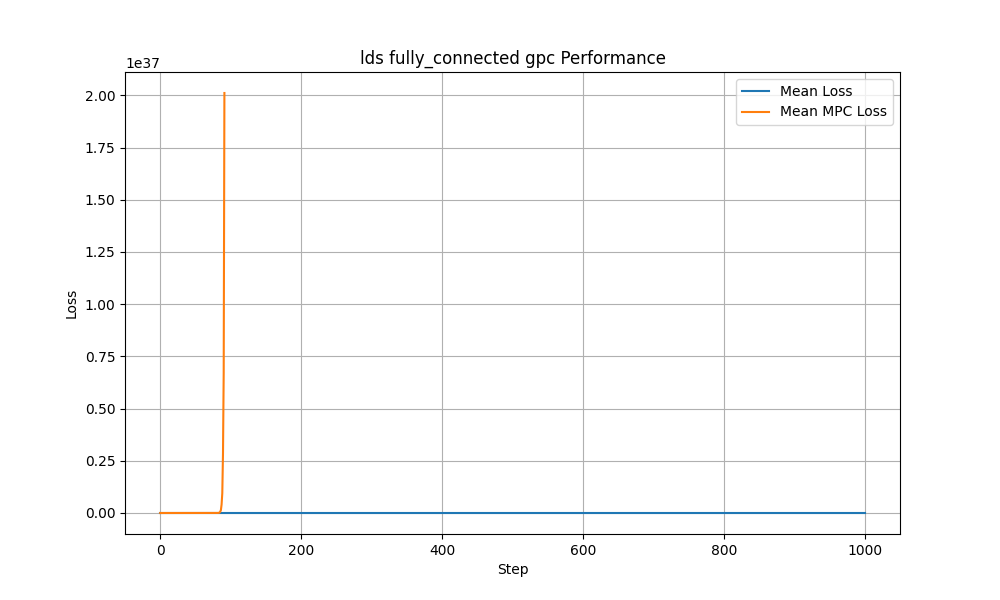
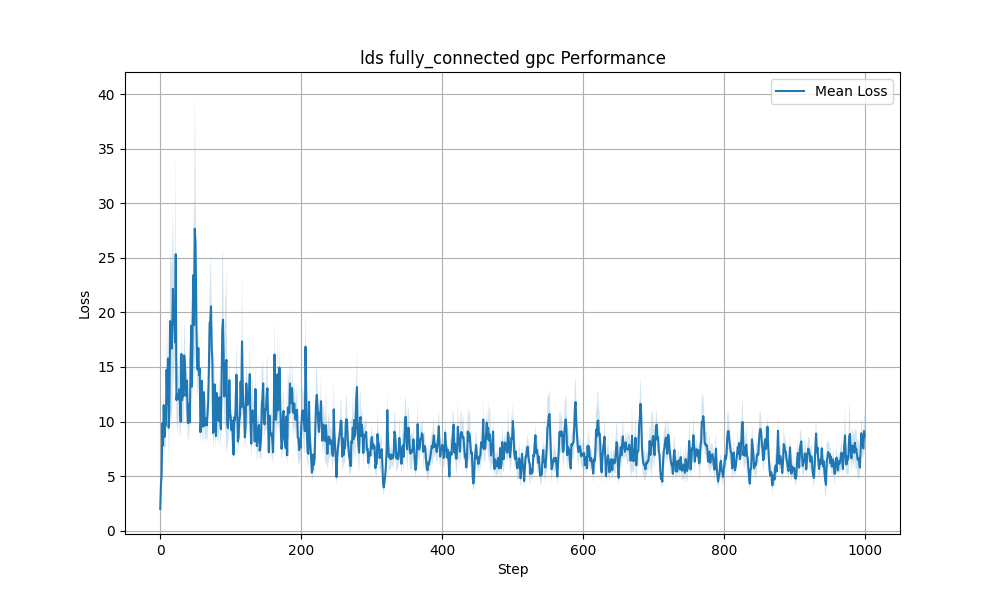
new experiment that takes in state and noise not working

diff --git a/deluca/experimental/experiments.py b/deluca/experimental/experiments.py
@@ -121,7 +121,7 @@ def run_trial(
     elif config.disturbance_type == 'gaussian':
         disturbance = lambda d, dist_std, t, key: gaussian_disturbance(d=d, dist_std=disturbance_params['std'], t=t, key=key)
     elif config.disturbance_type == 'zero':
-        disturbance = lambda d, dist_std, t, key: zero_disturbance(d=d, key=key)
+        disturbance = lambda d, dist_std, t, key: zero_disturbance(d=d, dist_std=dist_std, t=t, key=key)
     else:
         raise ValueError(f"Unknown disturbance type: {config.disturbance_type}")
     
@@ -137,11 +137,11 @@ def run_trial(
 
     # Create model
     if config.model_type == 'fully_connected':
-        model = FullyConnectedModel(m=input_dim, d=config.d, k=config.k, n=config.n, hidden_dims=config.hidden_dims)
+        model = FullyConnectedModel(m=input_dim+1, d=config.d, k=config.k, n=config.n, hidden_dims=config.hidden_dims)
     elif config.model_type == 'sequential':
-        model = SequentialModel(m=input_dim, d=config.d, k=config.k, n=config.n, hidden_dims=config.hidden_dims)
+        model = SequentialModel(m=input_dim+1, d=config.d, k=config.k, n=config.n, hidden_dims=config.hidden_dims)
     elif config.model_type == 'grid':
-        model = GridModel(m=input_dim, d=config.d, k=config.k, n=config.n, hidden_dims=config.hidden_dims)
+        model = GridModel(m=input_dim+1, d=config.d, k=config.k, n=config.n, hidden_dims=config.hidden_dims)
     else:
         raise ValueError(f"Unknown model type: {config.model_type}")
     
@@ -153,7 +153,7 @@ def run_trial(
     
     # Initialize model parameters and agent state
     init_key, loop_key = jax.random.split(key)
-    params = model.init(init_key, jnp.zeros((input_dim, config.d, 1)))
+    params = model.init(init_key, jnp.zeros((input_dim+1, config.d, 1)))
     opt_state = optimizer.init(params)
     
     initial_agentstate = AgentState(
@@ -166,7 +166,7 @@ def run_trial(
     )
     # if config.debug:
     #     initial_agentstate.show()
-    initial_physical_state = jnp.zeros((config.d, 1))
+    initial_physical_state = jnp.zeros((config.d, 1)).at[0].set(0.15)
 
     # Define loss function for grad and for reporting
     def loss_fn(p, dist_history, start_state):
@@ -192,14 +192,14 @@ def run_trial(
         #     jax_debug.print('agentstate.controller_t: {}', agentstate.controller_t)
         #     jax_debug.print('physical_state: {}', physical_state)
         # Get action from model
-        actions = model.apply(agentstate.params, get_features(config.m, agentstate.dist_history))
+        actions = model.apply(agentstate.params, jnp.concatenate([jnp.reshape(physical_state, (1, config.d, 1)), get_features(config.m, agentstate.dist_history)], axis=0))
         action = actions[0]
         # if config.debug:
         #     jax_debug.print('actions shape: {}', actions.shape)
         #     jax_debug.print('action: {}', action)
         # Step the environment
         key1, key2 = jax.random.split(key)
-        next_physical_state, output = step(
+        next_physical_state, output, _ = step(
             x=physical_state,
             u=action,
             sim=sim,

diff --git a/deluca/experimental/mpc.py b/deluca/experimental/mpc.py
@@ -209,14 +209,14 @@ def main():
     key = jax.random.PRNGKey(config.seed)
 
     # Create simulation and cost functions
-    # sim = functools.partial(pendulum_sim, max_torque=config.max_torque, m=config.m, l=config.l, g=config.g, dt=config.dt)
-    key, A_B_key = jax.random.split(key)
-    A, B = create_random_system(A_B_key, config.d, config.n, config.min_eig, config.max_eig)
-    key, Q_R_key = jax.random.split(key)
-    Q, R = create_random_cost_matrices(Q_R_key, config.d, config.n)
-    sim = functools.partial(lds_sim, A=A, B=B)
-    output_map = functools.partial(lds_output, C=jnp.eye(config.d))  # Identity output map
-    cost_fn = functools.partial(quadratic_cost_evaluate, Q=Q, R=R)
+    sim = functools.partial(pendulum_sim, max_torque=config.max_torque, m=config.m, l=config.l, g=config.g, dt=config.dt)
+    # key, A_B_key = jax.random.split(key)
+    # A, B = create_random_system(A_B_key, config.d, config.n, config.min_eig, config.max_eig)
+    # key, Q_R_key = jax.random.split(key)
+    # Q, R = create_random_cost_matrices(Q_R_key, config.d, config.n)
+    # sim = functools.partial(lds_sim, A=A, B=B)
+    # output_map = functools.partial(lds_output, C=jnp.eye(config.d))  # Identity output map
+    # cost_fn = functools.partial(quadratic_cost_evaluate, Q=Q, R=R)
     # Create disturbance
     disturbance_params = config.disturbance_params[config.disturbance_type]
     if config.disturbance_type == 'sinusoidal':
@@ -224,11 +224,11 @@ def main():
     elif config.disturbance_type == 'gaussian':
         disturbance = lambda d, dist_std, t, key: gaussian_disturbance(d=d, dist_std=disturbance_params['std'], t=t, key=key)
     elif config.disturbance_type == 'zero':
-        disturbance = lambda d, dist_std, t, key: zero_disturbance(d=d, key=key)
+        disturbance = lambda d, dist_std, t, key: zero_disturbance(d=d, dist_std=dist_std, t=t, key=key)
     else:
         raise ValueError(f"Unknown disturbance type: {config.disturbance_type}")
-    # output_map = pendulum_output
-    # cost_fn = pendulum_cost_evaluate
+    output_map = pendulum_output
+    cost_fn = pendulum_cost_evaluate
 
     # Create optimizer
     optimizer = optax.chain(

diff --git a/deluca/experimental/agents/agent.py b/deluca/experimental/agents/agent.py
@@ -47,14 +47,14 @@ def policy_loss(
 ) -> jnp.ndarray:
     def evolve(state: jnp.ndarray, offset: int) -> Tuple[jnp.ndarray, int]:
         slice = get_features(offset, dist_history)
-        actions = apply_fn(params, slice)
+        actions = apply_fn(params, jnp.concatenate([jnp.reshape(state, (1, d, 1)), slice], axis=0))
         next_state = sim(state, actions[0]) + dist_history[-m + offset]
         # if debug:
         #     jax_debug.print('offset: {}, slice: {}, dist to add: {}', offset, slice, dist_history[-m + offset])
         return next_state, None
     final_state, _ = jax.lax.scan(evolve, start_state, jnp.arange(m-1))
     final_slice = get_features(m-1, dist_history)
-    final_actions = apply_fn(params, final_slice)
+    final_actions = apply_fn(params, jnp.concatenate([jnp.reshape(final_state, (1, d, 1)), final_slice], axis=0))
     # if debug:
     #     jax_debug.print('final_offset: {}, final_slice: {}, final dist to add: {}', m-1, final_slice, dist_history[-1])
     #     jax_debug.print('final actions: {}', final_actions)

diff --git a/deluca/experimental/config.py b/deluca/experimental/config.py
@@ -1,9 +1,9 @@
 # System parameters
-sim_type = 'lds' # 'lds' or 'pendulum' or 'brax'
+sim_type = 'pendulum' # 'lds' or 'pendulum' or 'brax'
 
 #Specify if sim_type is 'lds'
-d = 10
-n = 3
+d = 2
+n = 1
 min_eig = 0.5
 max_eig = 0.9
 
@@ -25,7 +25,7 @@ gamma = 0.9
 hidden_dims = [8]
 
 # Disturbance parameters
-disturbance_type = 'gaussian'  # 'sinusoidal', 'gaussian', or 'zero'
+disturbance_type = 'zero'  # 'sinusoidal', 'gaussian', or 'zero'
 disturbance_params = {
     'sinusoidal': {
         'noise_amplitude': 1.0,

diff --git a/deluca/experimental/mpc_config.py b/deluca/experimental/mpc_config.py
@@ -17,7 +17,7 @@ k = 25  # action horizon for MPC
 hidden_dims = [64, 64]
 
 # Disturbance parameters
-disturbance_type = 'sinusoidal'  # 'sinusoidal', 'gaussian', or 'zero'
+disturbance_type = 'zero'  # 'sinusoidal', 'gaussian', or 'zero'
 disturbance_params = {
     'sinusoidal': {
         'noise_amplitude': 0.1,
